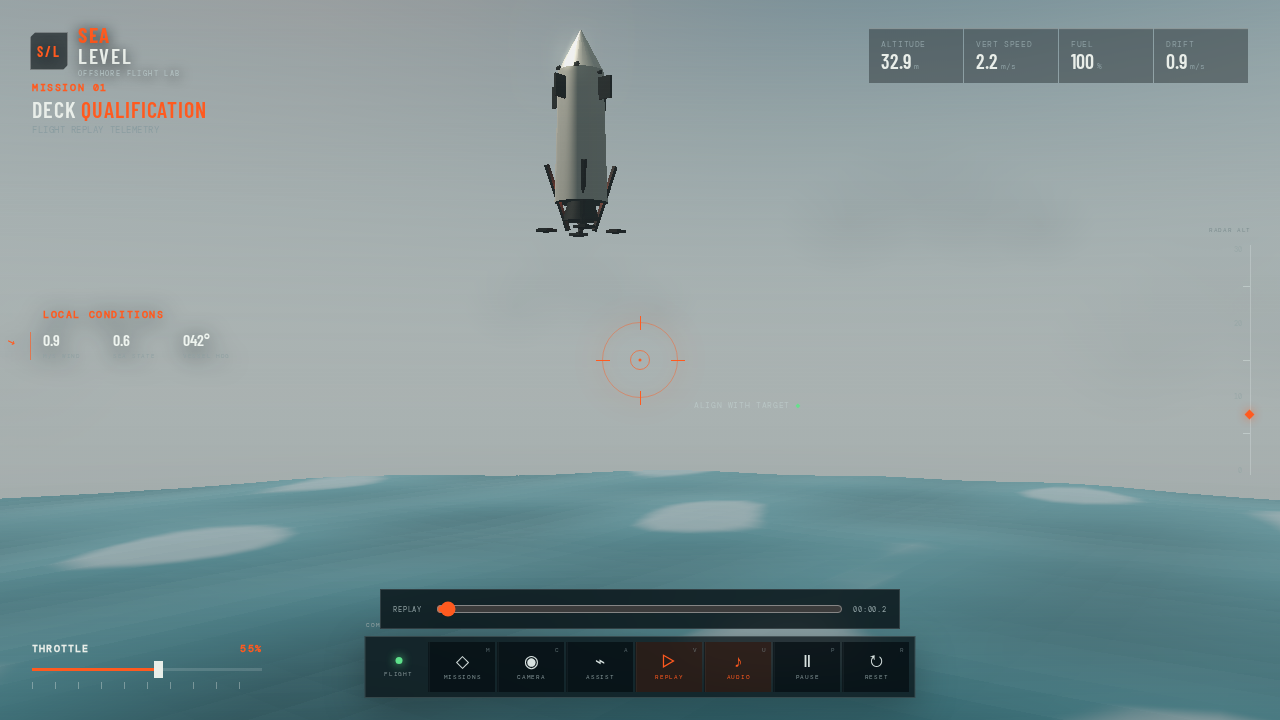
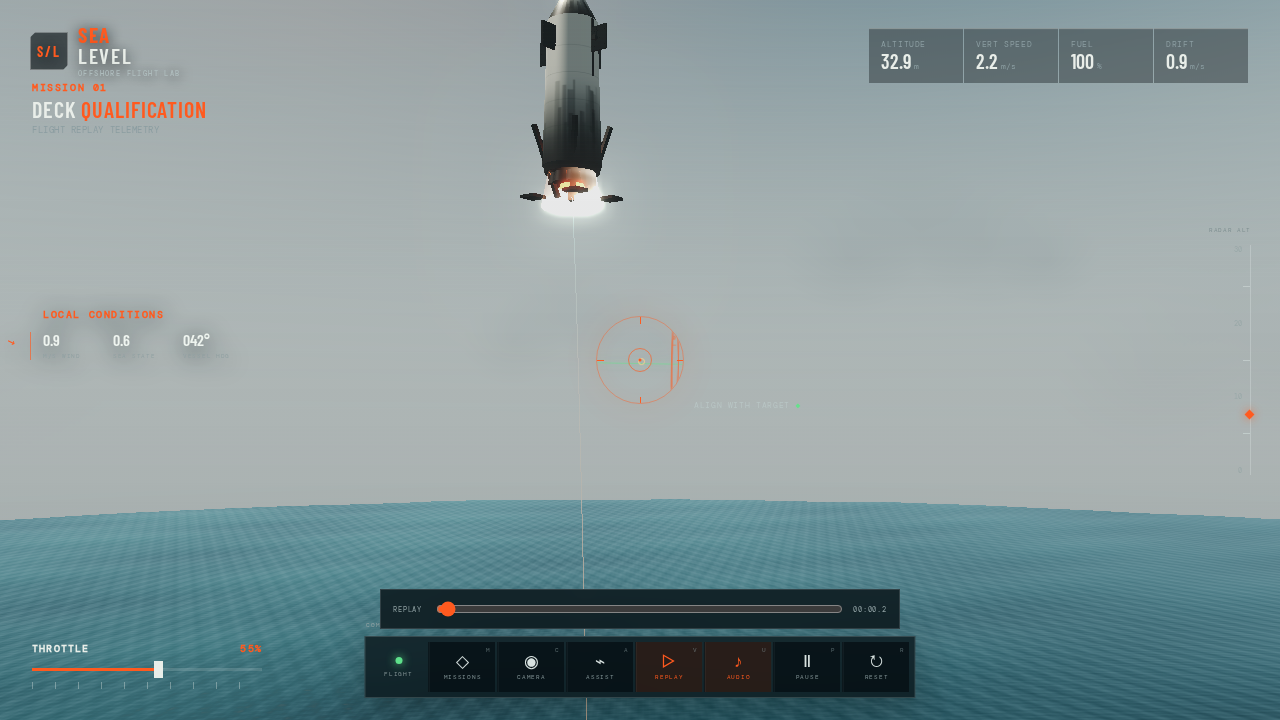
Regenerate simulator screenshots for PBR renderer

diff --git a/README.md b/README.md
@@ -13,11 +13,12 @@ SEA LEVEL keeps the flight rules deterministic and serializable while the Three.
 ## Screenshots
 
 The simulator adapts from a desktop flight deck to touch controls, with mission selection and flight replay built into the same loop.
+All three shots are captured by the Playwright suite in `tests/e2e/simulation.spec.ts` into `test-results/` and copied into `docs/screenshots/`.
 
 <table>
   <tr>
-    <td><img src="docs/screenshots/desktop-mission-drawer.png" alt="Desktop flight view with the Recovery Missions drawer open" width="640" /></td>
-    <td><img src="docs/screenshots/mobile-flight-controls.png" alt="Mobile flight view with touch controls" width="220" /></td>
+    <td><img src="docs/screenshots/desktop-flight.png" alt="Desktop flight view with the Recovery Missions drawer open" width="640" /></td>
+    <td><img src="docs/screenshots/mobile-flight.png" alt="Mobile flight view with touch controls" width="220" /></td>
   </tr>
   <tr>
     <td align="center">Desktop mission selection</td>
